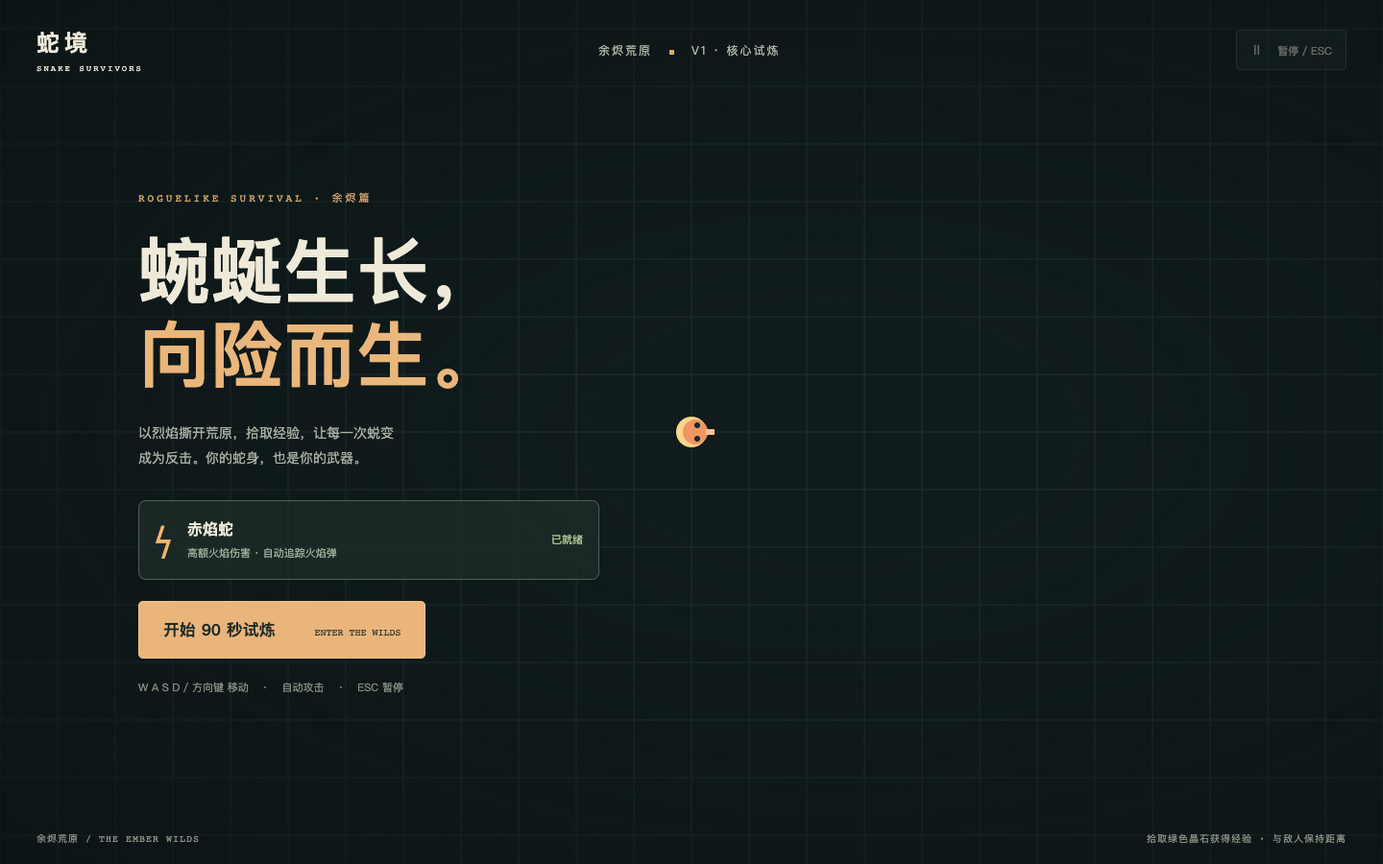
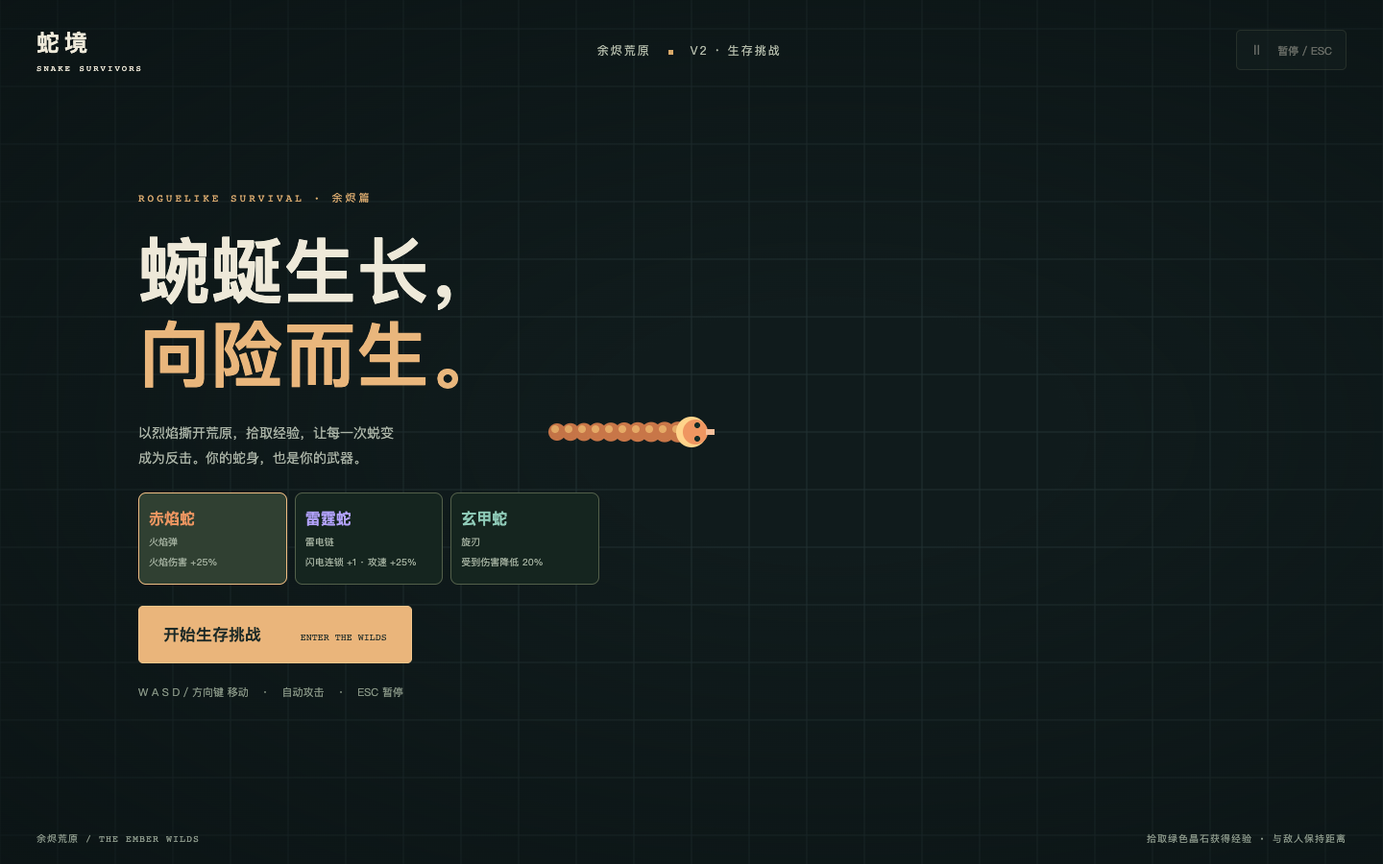
feat: implement snake survivors V2 combat progression

diff --git a/Task02/project/snake-survivors/src/main.jsx b/Task02/project/snake-survivors/src/main.jsx
@@ -2,14 +2,15 @@ import React,{useEffect,useRef,useState} from 'react';
 import {createRoot} from 'react-dom/client';
 import {Game} from './game/engine.js';
 import {render} from './game/renderer.js';
+import {CHARACTERS,WEAPONS,EVOLUTIONS} from './game/progression.js';
 import {threshold} from './game/config.js';
 import './style.css';
-function App(){const canvas=useRef(),game=useRef(new Game()),keys=useRef(new Set()),stick=useRef({x:0,y:0}),[view,setView]=useState(0);const g=game.current;
+function App(){const canvas=useRef(),game=useRef(new Game()),keys=useRef(new Set()),stick=useRef({x:0,y:0}),[view,setView]=useState(0),[selected,setSelected]=useState('fire');const g=game.current;
 useEffect(()=>{const el=canvas.current,ctx=el.getContext('2d');let width=0,height=0,dpr=1,frame,last=performance.now(),hud=0;const resize=()=>{width=innerWidth;height=innerHeight;dpr=Math.min(devicePixelRatio,2);el.width=width*dpr;el.height=height*dpr;};resize();const down=e=>{if(['ArrowUp','ArrowDown','ArrowLeft','ArrowRight',' '].includes(e.key))e.preventDefault();keys.current.add(e.key.toLowerCase());if(e.key==='Escape'){g.status==='playing'?g.pause():g.resume();setView(v=>v+1);}};const up=e=>keys.current.delete(e.key.toLowerCase());const blur=()=>{keys.current.clear();stick.current={x:0,y:0};g.pause();setView(v=>v+1);};addEventListener('resize',resize);addEventListener('keydown',down);addEventListener('keyup',up);addEventListener('blur',blur);function loop(now){const dt=(now-last)/1000;last=now;const k=keys.current;g.tick(dt,{x:Number(k.has('d')||k.has('arrowright'))-Number(k.has('a')||k.has('arrowleft'))+stick.current.x,y:Number(k.has('s')||k.has('arrowdown'))-Number(k.has('w')||k.has('arrowup'))+stick.current.y});render(ctx,g,width,height,dpr);if(now-hud>90){setView(v=>v+1);hud=now;}frame=requestAnimationFrame(loop);}frame=requestAnimationFrame(loop);return()=>{cancelAnimationFrame(frame);removeEventListener('resize',resize);removeEventListener('keydown',down);removeEventListener('keyup',up);removeEventListener('blur',blur);};},[]);
-const start=()=>{g.start();setView(v=>v+1);};return <><canvas ref={canvas} aria-label="蛇境战斗场景"/><div className="vignette"/>
-<header><a className="brand" href="#" onClick={e=>e.preventDefault()}>蛇境<span>SNAKE SURVIVORS</span></a><div className="tag">余烬荒原 <i/> V1 · 核心试炼</div><button className="small" onClick={()=>{g.status==='playing'?g.pause():g.resume();setView(v=>v+1);}} disabled={['menu','upgrade','ended'].includes(g.status)}>Ⅱ <span>暂停 / ESC</span></button></header>
-{g.status!=='menu'&&<><div className="hud"><div className="health"><label>赤焰蛇 <span>{Math.ceil(g.player.hp)} / {g.player.maxHp}</span></label><div className="bar"><b style={{width:g.player.hp/g.player.maxHp*100+'%'}}/></div></div><div className="clock">{String(Math.floor(g.time/60)).padStart(2,'0')}<em>:</em>{String(Math.floor(g.time%60)).padStart(2,'0')}<small>生存目标 01:30</small></div><div className="score">{g.kills}<small>击杀</small></div></div><div className="xp"><b style={{width:g.xp/threshold(g.level)*100+'%'}}/><span>LV. {g.level}　·　{g.xp} / {threshold(g.level)} EXP</span></div><aside>火焰弹 <strong>Ⅰ</strong><hr/>蛇身 <strong>{g.player.segments} 节</strong><small>蛇身可造成接触伤害</small></aside></>}
-{g.status==='menu'&&<main className="intro"><div className="eyebrow">ROGUELIKE SURVIVAL · 余烬篇</div><h1>蜿蜒生长，<br/><span>向险而生。</span></h1><p>以烈焰撕开荒原，拾取经验，让每一次蜕变<br/>成为反击。你的蛇身，也是你的武器。</p><div className="character"><div className="sigil">ϟ</div><div><b>赤焰蛇</b><small>高额火焰伤害 · 自动追踪火焰弹</small></div><span>已就绪</span></div><button className="primary" onClick={start}>开始 90 秒试炼 <span>ENTER THE WILDS</span></button><div className="hint">W A S D / 方向键 移动　 ·　 自动攻击　 ·　 ESC 暂停</div><div className="mobilehint">触屏：拖动左下方摇杆移动</div></main>}
-{['paused','upgrade','ended'].includes(g.status)&&<div className="overlay"><section className="panel"><div className="eyebrow">{g.status==='upgrade'?'EVOLUTION':g.status==='paused'?'TAKE A BREATH':'EXPEDITION COMPLETE'}</div><h2>{g.status==='upgrade'?'蜕变时刻':g.status==='paused'?'荒原静候':'victory'===g.result?'试炼完成':'烈焰未熄'}</h2>{g.status==='upgrade'?<><p>等级 {g.level} · 选择一项能力，继续生长</p><div className="choices">{g.choices.map((u,i)=><button key={u.id} onClick={()=>{g.choose(u.id);setView(v=>v+1);}}><small>0{i+1} / UPGRADE</small><h3>{u.name}</h3><p>{u.description}</p><span>选择能力 ＋</span></button>)}</div></>:<><p>{g.status==='paused'?'移动与战斗已暂停':`生存 ${Math.floor(g.time)} 秒 · 击杀 ${g.kills} · 等级 ${g.level}`}</p>{g.status==='paused'&&<button className="primary" onClick={()=>{g.resume();setView(v=>v+1);}}>继续战斗</button>}<button className="secondary" onClick={start}>重新开始</button></>}</section></div>}
+const start=()=>{g.start(selected);setView(v=>v+1);};return <><canvas ref={canvas} aria-label="蛇境战斗场景"/><div className="vignette"/>
+<header><a className="brand" href="#" onClick={e=>e.preventDefault()}>蛇境<span>SNAKE SURVIVORS</span></a><div className="tag">余烬荒原 <i/> V2 · 生存挑战</div><button className="small" onClick={()=>{g.status==='playing'?g.pause():g.resume();setView(v=>v+1);}} disabled={['menu','upgrade','ended'].includes(g.status)}>Ⅱ <span>暂停 / ESC</span></button></header>
+{g.status!=='menu'&&<><div className="hud"><div className="health"><label>{CHARACTERS[g.character].name} <span>{Math.ceil(g.player.hp)} / {g.player.maxHp}</span></label><div className="bar"><b style={{width:g.player.hp/g.player.maxHp*100+'%'}}/></div></div><div className="clock">{String(Math.floor(g.time/60)).padStart(2,'0')}<em>:</em>{String(Math.floor(g.time%60)).padStart(2,'0')}<small>生存目标 10:00</small></div><div className="score">{g.kills}<small>击杀</small></div></div><div className="xp"><b style={{width:g.xp/threshold(g.level)*100+'%'}}/><span>LV. {g.level}　·　{g.xp} / {threshold(g.level)} EXP</span></div><aside>{Object.entries(g.weapons).map(([id,lv])=><div key={id} className="weaponrow">{g.evolved[id]?EVOLUTIONS.find(e=>e.weapon===id)?.name:WEAPONS[id].name}<strong>Lv.{lv}</strong></div>)}<hr/>蛇身 <strong>{g.player.segments} 节</strong><small>蛇身可造成接触伤害</small><small>核心 {Object.keys(g.cores).length} / 3</small></aside><div className={'combo '+(g.fever>0?'fever':'')}>{g.fever>0?`FEVER ${g.fever.toFixed(1)}s`:`${g.combo} COMBO`}<small>最高连杀 {g.maxCombo}</small></div>{g.enemies.filter(e=>e.type==='boss').map(e=><div className="bossbar" key={e.id}><label>荒原吞噬者 · 阶段 {e.phase}</label><div className="bar"><b style={{width:Math.max(0,e.hp/e.maxHp)*100+'%'}}/></div></div>)}</>}
+{g.status==='menu'&&<main className="intro"><div className="eyebrow">ROGUELIKE SURVIVAL · 余烬篇</div><h1>蜿蜒生长，<br/><span>向险而生。</span></h1><p>以烈焰撕开荒原，拾取经验，让每一次蜕变<br/>成为反击。你的蛇身，也是你的武器。</p><div className="characters">{Object.entries(CHARACTERS).map(([id,c])=><button key={id} className={'character '+(selected===id?'selected':'')} onClick={()=>setSelected(id)}><b style={{color:c.color}}>{c.name}</b><small>{WEAPONS[c.weapon].name}</small><small>{c.passive}</small></button>)}</div><button className="primary" onClick={start}>开始生存挑战 <span>ENTER THE WILDS</span></button><div className="hint">W A S D / 方向键 移动　 ·　 自动攻击　 ·　 ESC 暂停</div><div className="mobilehint">触屏：拖动左下方摇杆移动</div></main>}
+{['paused','upgrade','ended'].includes(g.status)&&<div className="overlay"><section className="panel"><div className="eyebrow">{g.status==='upgrade'?'EVOLUTION':g.status==='paused'?'TAKE A BREATH':'EXPEDITION COMPLETE'}</div><h2>{g.status==='upgrade'?'蜕变时刻':g.status==='paused'?'荒原静候':'victory'===g.result?'试炼完成':'烈焰未熄'}</h2>{g.status==='upgrade'?<><p>等级 {g.level} · 选择一项能力，继续生长</p><div className="choices">{g.choices.map((u,i)=><button key={u.id} onClick={()=>{g.choose(u.id);setView(v=>v+1);}}><small>0{i+1} / UPGRADE</small><h3>{u.name}</h3><p>{u.description}</p><span>选择能力 ＋</span></button>)}</div></>:<><p>{g.status==='paused'?'移动与战斗已暂停':`生存 ${Math.floor(g.time)} 秒 · 击杀 ${g.kills} · 等级 ${g.level} · 最高连杀 ${g.maxCombo} · 总伤害 ${Math.round(g.totalDamage)}${g.bossDefeated?" · Boss 已击败":""}`}</p>{g.status==='paused'&&<button className="primary" onClick={()=>{g.resume();setView(v=>v+1);}}>继续战斗</button>}<button className="secondary" onClick={start}>重新开始</button><button className="secondary" onClick={()=>{g.reset();setView(v=>v+1);}}>选择角色</button></>}</section></div>}
 <div className="joystick" onPointerDown={e=>{e.currentTarget.setPointerCapture(e.pointerId);const r=e.currentTarget.getBoundingClientRect();stick.current={x:(e.clientX-r.x-r.width/2)/45,y:(e.clientY-r.y-r.height/2)/45};}} onPointerMove={e=>{if(e.buttons){const r=e.currentTarget.getBoundingClientRect();stick.current={x:(e.clientX-r.x-r.width/2)/45,y:(e.clientY-r.y-r.height/2)/45};}}} onPointerUp={()=>stick.current={x:0,y:0}} onPointerCancel={()=>stick.current={x:0,y:0}}>✥</div><footer><span>余烬荒原 / THE EMBER WILDS</span><span>拾取绿色晶石获得经验 · 与敌人保持距离</span></footer></>}
 createRoot(document.getElementById('root')).render(<App/>);

diff --git a/Task02/project/snake-survivors/src/game/engine.js b/Task02/project/snake-survivors/src/game/engine.js
@@ -1,16 +1,18 @@
 import {RULES,UPGRADES,threshold} from './config.js';
+import {CHARACTERS,weaponChoices,coreChoices,evolve,registerKill,comboMultiplier} from './progression.js';
 import {createPlayer,updatePlayer} from './player.js';
 import {spawnEnemy,updateEnemies} from './enemies.js';
 import {updateWeapons} from './weapons.js';
 import {updateDrops} from './drops.js';
 export class Game {
- constructor(random=Math.random){this.random=random;this.reset();}
- reset(){this.player=createPlayer();updatePlayer(this.player,{x:0,y:0},0);this.enemies=[];this.bullets=[];this.drops=[];this.effects=[];this.time=0;this.kills=0;this.level=1;this.xp=0;this.cooldown=0;this.spawn=0;this.nextId=1;this.upgrades={};this.choices=[];this.status='menu';this.result=null;}
- start(){this.reset();this.status='playing';}
+ constructor(random=Math.random){this.random=random;this.character='fire';this.reset();}
+ reset(){this.player=createPlayer();const c=CHARACTERS[this.character];this.player.hp=this.player.maxHp=c.hp;updatePlayer(this.player,{x:0,y:0},0);this.enemies=[];this.bullets=[];this.drops=[];this.effects=[];this.zones=[];this.hostile=[];this.warnings=[];this.weapons={[c.weapon]:1};this.timers={};this.cores={};this.evolved={};this.combo=0;this.maxCombo=0;this.lastKill=-10;this.fever=0;this.feverReady=0;this.elites=0;this.bossSpawned=false;this.bossDefeated=false;this.time=0;this.kills=0;this.totalDamage=0;this.level=1;this.xp=0;this.spawn=0;this.nextId=1;this.upgrades={};this.choices=[];this.status='menu';this.result=null;}
+ start(character=this.character){this.character=CHARACTERS[character]?character:'fire';this.reset();this.status='playing';}
  pause(){if(this.status==='playing')this.status='paused';}
  resume(){if(this.status==='paused')this.status='playing';}
- damage(enemy,value){if(enemy.hp<=0)return;enemy.hp-=value;enemy.flash=0.1;this.effects.push({x:enemy.x,y:enemy.y,text:Math.round(value),color:'#ffe5a3',life:0.65});if(enemy.hp<=0){this.kills++;this.drops.push({x:enemy.x,y:enemy.y,value:enemy.xp});for(let i=0;i<5;i++)this.effects.push({x:enemy.x,y:enemy.y,vx:(this.random()-.5)*140,vy:(this.random()-.5)*140,color:enemy.color,life:0.45});}}
- offer(){const pool=UPGRADES.filter(u=>(this.upgrades[u.id]||0)<u.max);this.choices=[];while(pool.length&&this.choices.length<3)this.choices.push(pool.splice(Math.floor(this.random()*pool.length),1)[0]);if(this.choices.length)this.status='upgrade';else{this.player.hp=Math.min(this.player.maxHp,this.player.hp+20);}}
- choose(id){if(this.status!=='upgrade'||!this.choices.some(c=>c.id===id))return;this.upgrades[id]=(this.upgrades[id]||0)+1;const p=this.player;if(id==='length')p.segments+=3;if(id==='health'){p.maxHp+=25;p.hp=Math.min(p.maxHp,p.hp+35);}if(id==='speed')p.speed=210*(1+.08*this.upgrades.speed);this.choices=[];this.status='playing';}
- tick(dt,input={x:0,y:0}){if(this.status!=='playing')return;dt=Math.min(Math.max(dt,0),0.05);this.time+=dt;updatePlayer(this.player,input,dt);this.spawn-=dt;if(this.spawn<=0&&this.enemies.length<RULES.maxEnemies){spawnEnemy(this,this.time>25&&this.random()<.3?'skeleton':this.random()<.3?'beast':'slime');this.spawn=Math.max(.18,.8-this.time*.006);}updateWeapons(this,dt);updateEnemies(this,dt);this.enemies=this.enemies.filter(e=>e.hp>0);updateDrops(this,dt);for(const e of this.effects){e.life-=dt;e.y+=(e.vy||-24)*dt;e.x+=(e.vx||0)*dt;}this.effects=this.effects.filter(e=>e.life>0);if(this.player.hp<=0){this.status='ended';this.result='defeat';}else if(this.time>=RULES.duration){this.status='ended';this.result='victory';}else if(this.xp>=threshold(this.level)){this.xp-=threshold(this.level);this.level++;this.offer();}}
+ hurt(value){const p=this.player;if(p.invulnerable>0)return;const reduction=Math.min(.6,CHARACTERS[this.character].reduction+.08*(this.upgrades.armor||0));const damage=value*(1-reduction);p.hp=Math.max(0,p.hp-damage);p.invulnerable=.7;this.effects.push({x:p.x,y:p.y,text:`−${Math.round(damage)}`,color:'#ff7e75',life:.8});}
+ damage(enemy,value){if(enemy.hp<=0)return;const crit=this.random()<Math.min(.6,.04+.08*(this.upgrades.crit||0));value*=CHARACTERS[this.character].attack*(1+.2*(this.upgrades.power||0))*(this.fever>0?1.5:1)*(crit?Math.min(3,1.5+.25*(this.upgrades.critDamage||0)):1);this.totalDamage+=Math.min(enemy.hp,value);enemy.hp-=value;enemy.flash=.1;const d=Math.hypot(enemy.x-this.player.x,enemy.y-this.player.y)||1;if(enemy.type!=='boss'){enemy.x+=(enemy.x-this.player.x)/d*6;enemy.y+=(enemy.y-this.player.y)/d*6;}this.effects.push({x:enemy.x,y:enemy.y,text:Math.round(value)+(crit?'!':''),color:crit?'#fff':'#ffe5a3',life:.65});if(enemy.hp<=0){this.kills++;registerKill(this);this.drops.push({x:enemy.x,y:enemy.y,value:Math.round(enemy.xp*comboMultiplier(this)*(1+.15*(this.upgrades.xp||0))),rare:enemy.type==='elite'});if(enemy.type==='boss'){this.bossDefeated=true;this.player.hp=this.player.maxHp;this.result='victory';this.status='ended';}for(let i=0;i<5;i++)this.effects.push({x:enemy.x,y:enemy.y,vx:(this.random()-.5)*140,vy:(this.random()-.5)*140,color:enemy.color,life:.45});}}
+ offer(rare=false){const pool=rare?coreChoices(this):[...UPGRADES.filter(u=>(this.upgrades[u.id]||0)<u.max),...weaponChoices(this),...coreChoices(this)];this.choices=[];while(pool.length&&this.choices.length<3)this.choices.push(pool.splice(Math.floor(this.random()*pool.length),1)[0]);if(this.choices.length)this.status='upgrade';else this.player.hp=Math.min(this.player.maxHp,this.player.hp+20);}
+ choose(id){if(this.status!=='upgrade'||!this.choices.some(c=>c.id===id))return;const [kind,key]=id.split(':');if(kind==='weapon')this.weapons[key]=(this.weapons[key]||0)+1;else if(kind==='core')this.cores[key]=true;else{this.upgrades[id]=(this.upgrades[id]||0)+1;const p=this.player;if(id==='length')p.segments+=3;if(id==='health'){p.maxHp+=25;p.hp=Math.min(p.maxHp,p.hp+35);}if(id==='speed')p.speed=210*(1+.08*this.upgrades.speed);}evolve(this);this.choices=[];this.status='playing';}
+ tick(dt,input={x:0,y:0}){if(this.status!=='playing')return;dt=Math.min(Math.max(dt,0),.05);this.time+=dt;this.fever=Math.max(0,this.fever-dt);if(this.time-this.lastKill>3)this.combo=0;this.player.hp=Math.min(this.player.maxHp,this.player.hp+dt*.5*(this.upgrades.regen||0));updatePlayer(this.player,input,dt);this.spawn-=dt;if(this.spawn<=0&&this.enemies.length<RULES.maxEnemies){spawnEnemy(this,this.time>60&&this.random()<.2?'worm':this.time>25&&this.random()<.3?'skeleton':this.random()<.3?'beast':'slime');this.spawn=Math.max(.18,.8-this.time*.0015);}if(this.elites<3&&this.time>=[120,240,420][this.elites]){spawnEnemy(this,'elite');this.elites++;}if(this.time>=540&&!this.bossSpawned){spawnEnemy(this,'boss');this.bossSpawned=true;}updateWeapons(this,dt);if(this.status==='ended')return;updateEnemies(this,dt);this.enemies=this.enemies.filter(e=>e.hp>0);updateDrops(this,dt);for(const e of this.effects){e.life-=dt;e.y+=(e.vy||-24)*dt;e.x+=(e.vx||0)*dt;}this.effects=this.effects.filter(e=>e.life>0).slice(-500);if(this.player.hp<=0){this.status='ended';this.result='defeat';}else if(this.bossDefeated||this.time>=RULES.duration){this.status='ended';this.result='victory';}else if(this.status==='playing'&&this.xp>=threshold(this.level)){this.xp-=threshold(this.level);this.level++;this.offer();}}
 }

diff --git a/Task02/project/snake-survivors/src/style.css b/Task02/project/snake-survivors/src/style.css
@@ -1,1 +1,2 @@
 :root{font-family:Inter,'PingFang SC',system-ui,sans-serif;color:#eee9d9;background:#101b1c;font-synthesis:none}*{box-sizing:border-box}body{margin:0;overflow:hidden}canvas,.vignette{position:fixed;inset:0;width:100%;height:100%}.vignette{pointer-events:none;background:radial-gradient(ellipse at 60% 50%,transparent 20%,#091112a8 100%)}button{font:inherit;cursor:pointer;color:inherit;transition:.2s}button:hover{filter:brightness(1.16);transform:translateY(-2px)}button:focus-visible{outline:2px solid #f9ba7c;outline-offset:4px}button:disabled{opacity:.4;cursor:default}header{position:absolute;top:28px;left:38px;right:38px;display:flex;align-items:center;justify-content:space-between}.brand{font-size:24px;font-weight:800;color:#eee9d9;text-decoration:none;letter-spacing:5px}.brand span{display:block;font:9px monospace;letter-spacing:2px;margin-top:5px}.tag{font-size:12px;letter-spacing:2px;color:#b1b9a8}.tag i{display:inline-block;width:5px;height:5px;background:#d9a969;margin:0 12px}.small{background:#172423;border:1px solid #4b5547;padding:10px 14px;border-radius:5px;font-size:14px}.small span{font-size:11px;margin-left:10px}.intro{position:absolute;left:10%;top:22%;width:480px}.eyebrow{font:11px monospace;letter-spacing:3px;color:#dbab6f}.intro h1{font-size:clamp(42px,5.2vw,76px);line-height:1.16;letter-spacing:1px;margin:25px 0}.intro h1 span{color:#e9b67c}.intro p,.panel>p{font-size:14px;line-height:1.9;color:#aab3a6}.character{display:flex;align-items:center;gap:16px;margin:30px 0 22px;padding:16px;background:#1d2c28cc;border:1px solid #53604a;border-radius:8px}.sigil{font-size:35px;color:#f0b46f}.character small{display:block;margin-top:6px;color:#a5b2a1;font-size:11px}.character>span{margin-left:auto;color:#b1c995;font-size:11px}.primary{border:1px solid #f4c78b;background:#eab57b;color:#1c2926;padding:17px 25px;font-size:17px;font-weight:700;border-radius:5px}.primary span{font:10px monospace;margin-left:35px}.hint,.mobilehint{font-size:11px;color:#859383;margin-top:22px}.mobilehint{display:none}footer{position:absolute;bottom:20px;left:38px;right:38px;display:flex;justify-content:space-between;color:#8a9789;font:10px monospace;letter-spacing:1px}.hud{position:absolute;top:104px;left:38px;right:38px;display:flex;align-items:start;justify-content:space-between}.health{width:220px}.health label{font-size:13px;display:flex;justify-content:space-between}.health label span{font:12px monospace;color:#baae94}.bar{height:6px;background:#3c4034;margin-top:12px}.bar b{display:block;height:100%;background:#e7a578}.clock{font:34px monospace;text-align:center}.clock em{font-style:normal;color:#9ca78e}.clock small,.score small{display:block;font:10px sans-serif;color:#9daa95;margin-top:6px}.score{font:26px monospace;text-align:right;width:220px}.xp{position:absolute;bottom:50px;left:25%;right:25%;height:4px;background:#354439}.xp b{display:block;height:100%;background:#b9d79a}.xp span{display:block;text-align:center;margin-top:8px;font:10px monospace;color:#b5c2a7}aside{position:absolute;left:38px;top:220px;background:#12201bc9;border:1px solid #344337;padding:16px;font-size:12px;width:170px}aside strong{float:right;color:#efb77f}aside small{display:block;margin-top:12px;font-size:10px;color:#8fa28e}hr{border:0;border-top:1px solid #344337;margin:12px 0}.overlay{position:fixed;inset:0;background:#081211cc;backdrop-filter:blur(8px);display:grid;place-items:center}.panel{text-align:center;max-width:900px;width:90%;padding:35px}.panel h2{font-size:42px;margin:20px}.choices{display:flex;gap:16px;margin-top:30px}.choices button{text-align:left;flex:1;background:#1c2b27;border:1px solid #65704f;border-radius:8px;padding:25px}.choices small{font:10px monospace;color:#bdc595}.choices h3{color:#f0c18b;font-size:22px}.choices p{font-size:13px;line-height:1.8;color:#b4c0a6;min-height:50px}.choices span{font-size:12px;color:#d6c695}.secondary{background:transparent;border:1px solid #899876;padding:16px 26px;border-radius:5px;margin:12px}.joystick{display:none} @media(max-width:650px){header{top:20px;left:20px;right:20px}.tag{display:none}.intro{left:7%;top:20%;width:86%}.intro h1{font-size:49px}.intro p{font-size:13px}.primary span{margin-left:12px}.hint{font-size:10px}.mobilehint{display:block}.hud{left:20px;right:20px;top:100px}.health{width:125px}.score{width:60px}.clock{font-size:25px}aside{display:none}.xp{left:20%;right:20%;bottom:60px}footer{left:20px;right:20px;font-size:8px}footer span:last-child{display:none}.choices{flex-direction:column;gap:8px;margin-top:15px}.choices button{padding:15px}.choices h3{font-size:18px;margin:8px 0}.choices p{min-height:0;margin:6px 0}.panel{padding:12px}.panel h2{font-size:30px}.joystick{display:grid;place-items:center;position:absolute;bottom:90px;left:24px;width:100px;height:100px;border:1px solid #a2b79466;background:#a2b79411;border-radius:100%;touch-action:none;font-size:36px;color:#c0cfa388}.intro~.joystick{opacity:.4}}
+.characters{display:flex;gap:8px;margin:22px 0}.characters .character{display:block;flex:1;margin:0;padding:15px 10px;text-align:left;background:#15251f;min-width:0}.characters .selected{border-color:#efbd83;background:#304032}.characters .character small{font-size:10px;line-height:1.5}.weaponrow{margin-bottom:12px}.combo{position:absolute;right:38px;top:220px;text-align:right;font:24px monospace;color:#efc38e}.combo small{display:block;color:#a3b097;font:11px sans-serif;margin-top:6px}.fever{color:#ffb65e;text-shadow:0 0 24px #ff7f39}.bossbar{position:absolute;top:180px;left:30%;right:30%;text-align:center;font-size:13px;color:#f1b3da}.bossbar .bar b{background:#d084bc}@media(max-width:650px){.intro{top:17%}.intro h1{font-size:40px;margin:18px 0}.characters{margin:16px 0}.characters .character{padding:12px 8px}.combo{top:180px;right:20px;font-size:19px}.bossbar{top:235px;left:20%;right:20%}}

diff --git a/Task02/project/snake-survivors/src/game/renderer.js b/Task02/project/snake-survivors/src/game/renderer.js
@@ -1,10 +1,16 @@
+import {bladePositions} from './weapons.js';
+import {CHARACTERS} from './progression.js';
 import {RULES} from './config.js';
 export function render(ctx,g,w,h,dpr=1){ctx.setTransform(dpr,0,0,dpr,0,0);ctx.fillStyle='#101b1c';ctx.fillRect(0,0,w,h);const p=g.player,scale=Math.min(1,w/900+.25),ox=w/2-p.x*scale,oy=h/2-p.y*scale;ctx.save();ctx.translate(ox,oy);ctx.scale(scale,scale);ctx.strokeStyle='#213032';ctx.lineWidth=1;for(let x=0;x<=RULES.width;x+=60){ctx.beginPath();ctx.moveTo(x,0);ctx.lineTo(x,RULES.height);ctx.stroke();}for(let y=0;y<=RULES.height;y+=60){ctx.beginPath();ctx.moveTo(0,y);ctx.lineTo(RULES.width,y);ctx.stroke();}ctx.strokeStyle='#718a62';ctx.lineWidth=6;ctx.strokeRect(0,0,RULES.width,RULES.height);
  const circle=(x,y,r,color)=>{ctx.fillStyle=color;ctx.beginPath();ctx.arc(x,y,r,0,Math.PI*2);ctx.fill();};
+ for(const z of g.zones){ctx.globalAlpha=.15;circle(z.x,z.y,z.r,z.fire?'#ff8950':'#9fd855');ctx.globalAlpha=1;ctx.strokeStyle=z.fire?'#ff8950':'#9fd855';ctx.beginPath();ctx.arc(z.x,z.y,z.r,0,Math.PI*2);ctx.stroke();}
+ for(const w of g.warnings){ctx.globalAlpha=.2+.3*(1-w.life/w.delay);circle(w.x,w.y,w.r,'#ff576c');ctx.globalAlpha=1;ctx.strokeStyle='#ff9ca1';ctx.lineWidth=3;ctx.beginPath();ctx.arc(w.x,w.y,w.r,0,Math.PI*2);ctx.stroke();ctx.fillStyle='#fff';ctx.textAlign='center';ctx.font='bold 24px sans-serif';ctx.fillText('!',w.x,w.y);}
+ for(const b of g.hostile)circle(b.x,b.y,7,'#d6ed88');
+ for(const b of bladePositions(g)){ctx.save();ctx.translate(b.x,b.y);ctx.rotate(g.time*5);ctx.fillStyle=g.evolved.blade?'#7bfff0':'#d9efed';ctx.fillRect(-20,-5,40,10);ctx.restore();}
  for(const d of g.drops){ctx.save();ctx.translate(d.x,d.y);ctx.rotate(Math.PI/4);ctx.fillStyle='#a9efbb';ctx.shadowColor='#baffbd';ctx.shadowBlur=10;ctx.fillRect(-4,-4,8,8);ctx.restore();}
- for(const e of g.enemies){circle(e.x+2,e.y+5,e.radius,'#071211');circle(e.x,e.y,e.radius,e.flash?'#fff':e.type==='beast'?'#dc9465':e.type==='skeleton'?'#c8ccba':'#839f53');circle(e.x-5,e.y-2,2,'#1b2725');circle(e.x+5,e.y-2,2,'#1b2725');if(e.type==='skeleton'){ctx.fillStyle='#26342e';ctx.fillRect(e.x-6,e.y+4,12,3);}if(e.hp<e.maxHp){ctx.fillStyle='#28342d';ctx.fillRect(e.x-14,e.y-25,28,3);ctx.fillStyle='#ef9b6b';ctx.fillRect(e.x-14,e.y-25,28*Math.max(0,e.hp/e.maxHp),3);}}
+ for(const e of g.enemies){circle(e.x+2,e.y+5,e.radius,'#071211');circle(e.x,e.y,e.radius,e.flash?'#fff':e.color);circle(e.x-5,e.y-2,2,'#1b2725');circle(e.x+5,e.y-2,2,'#1b2725');if(e.type==='skeleton'){ctx.fillStyle='#26342e';ctx.fillRect(e.x-6,e.y+4,12,3);}if(e.hp<e.maxHp){ctx.fillStyle='#28342d';ctx.fillRect(e.x-14,e.y-25,28,3);ctx.fillStyle='#ef9b6b';ctx.fillRect(e.x-14,e.y-25,28*Math.max(0,e.hp/e.maxHp),3);}}
  p.body.slice().reverse().forEach((b,i)=>{circle(b.x,b.y,9+i/p.segments*2,'#c87648');circle(b.x-2,b.y-3,4,'#e5aa66');});
- ctx.save();ctx.translate(p.x,p.y);ctx.rotate(p.angle);ctx.globalAlpha=p.invulnerable>0?.6+Math.sin(g.time*40)*.3:1;circle(0,0,16,'#ffd48b');circle(4,0,13,'#ef9661');circle(6,-7,3,'#152b26');circle(6,7,3,'#152b26');ctx.strokeStyle='#f6bf9b';ctx.beginPath();ctx.moveTo(15,0);ctx.lineTo(24,0);ctx.stroke();ctx.restore();
+ ctx.save();ctx.translate(p.x,p.y);ctx.rotate(p.angle);ctx.globalAlpha=p.invulnerable>0?.6+Math.sin(g.time*40)*.3:1;circle(0,0,16,'#ffd48b');circle(4,0,13,CHARACTERS[g.character].color);circle(6,-7,3,'#152b26');circle(6,7,3,'#152b26');ctx.strokeStyle='#f6bf9b';ctx.beginPath();ctx.moveTo(15,0);ctx.lineTo(24,0);ctx.stroke();ctx.restore();
  for(const b of g.bullets){ctx.shadowColor='#ff8651';ctx.shadowBlur=18;circle(b.x,b.y,7,'#ffb25f');circle(b.x,b.y,3,'#fff4cc');}ctx.shadowBlur=0;
- for(const e of g.effects){ctx.globalAlpha=Math.min(1,e.life*2);ctx.font='bold 17px monospace';ctx.textAlign='center';ctx.fillStyle=e.color;if(e.text!==undefined)ctx.fillText(e.text,e.x,e.y);else circle(e.x,e.y,2,e.color||'#e7bb77');}ctx.restore();ctx.globalAlpha=1;
+ for(const e of g.effects){if(e.x2!==undefined){ctx.strokeStyle=e.color;ctx.lineWidth=e.shadow?13:3;ctx.globalAlpha=Math.min(1,e.life*3);ctx.beginPath();ctx.moveTo(e.x,e.y);ctx.lineTo(e.x2,e.y2);ctx.stroke();ctx.globalAlpha=1;continue;}ctx.globalAlpha=Math.min(1,e.life*2);ctx.font='bold 17px monospace';ctx.textAlign='center';ctx.fillStyle=e.color;if(e.text!==undefined)ctx.fillText(e.text,e.x,e.y);else circle(e.x,e.y,2,e.color||'#e7bb77');}ctx.restore();ctx.globalAlpha=1;
 }

diff --git a/Task02/project/snake-survivors/tests/engine.test.js b/Task02/project/snake-survivors/tests/engine.test.js
@@ -1,4 +1,4 @@
-import test from 'node:test';import assert from 'node:assert/strict';import {Game} from '../src/game/engine.js';import {updatePlayer} from '../src/game/player.js';import {spawnEnemy,updateEnemies} from '../src/game/enemies.js';import {updateWeapons} from '../src/game/weapons.js';import {updateDrops} from '../src/game/drops.js';import {threshold} from '../src/game/config.js';
+import test from 'node:test';import assert from 'node:assert/strict';import {Game} from '../src/game/engine.js';import {updatePlayer} from '../src/game/player.js';import {spawnEnemy,updateEnemies} from '../src/game/enemies.js';import {updateWeapons} from '../src/game/weapons.js';import {updateDrops} from '../src/game/drops.js';import {RULES,UPGRADES,threshold} from '../src/game/config.js';
 const fresh=()=>{const g=new Game(()=>.5);g.start();return g;};
 test('movement is frame independent, diagonal normalized, bounded',()=>{const a=fresh(),b=fresh();for(let i=0;i<60;i++)updatePlayer(a.player,{x:1,y:1},1/60/Math.sqrt(2));for(let i=0;i<30;i++)updatePlayer(b.player,{x:1,y:1},1/30/Math.sqrt(2));assert.ok(Math.abs(a.player.x-b.player.x)<.001);});
 test('body follows a continuous curved path at stable spacing',()=>{const g=fresh();for(let i=0;i<180;i++)updatePlayer(g.player,{x:Math.cos(i/80),y:Math.sin(i/80)},1/60);assert.equal(g.player.body.length,g.player.segments);const points=[g.player,...g.player.body];for(let i=1;i<points.length;i++){const d=Math.hypot(points[i].x-points[i-1].x,points[i].y-points[i-1].y);assert.ok(d>12&&d<15);}});
@@ -6,7 +6,7 @@ test('spawn stays away; enemies chase and deal contact damage',()=>{const g=fres
 test('homing projectiles damage enemies and generate drops',()=>{const g=fresh();spawnEnemy(g,'slime');const e=g.enemies[0];e.x=g.player.x+90;e.y=g.player.y;for(let i=0;i<180;i++)updateWeapons(g,1/60);assert.ok(e.hp<=0);assert.equal(g.kills,1);assert.equal(g.drops.length,1);});
 test('experience pauses play, choice applies once and resumes',()=>{const g=fresh();g.drops.push({x:g.player.x,y:g.player.y,value:threshold(1)});updateDrops(g,.01);g.tick(.01);assert.equal(g.status,'upgrade');assert.equal(g.choices.length,3);const id=g.choices[0].id;g.choose(id);g.choose(id);assert.equal(g.upgrades[id],1);assert.equal(g.status,'playing');});
 test('pause freezes simulation and restart clears all state',()=>{const g=fresh();g.tick(.1);g.pause();const time=g.time;g.tick(1,{x:1,y:0});assert.equal(g.time,time);g.resume();g.tick(.01);assert.ok(g.time>time);g.start();assert.equal(g.time,0);assert.equal(g.enemies.length,0);assert.deepEqual(g.upgrades,{});});
-test('death and timed victory produce separate results',()=>{const g=fresh();g.player.hp=0;g.tick(.01);assert.equal(g.result,'defeat');g.start();g.time=90;g.tick(.01);assert.equal(g.result,'victory');});
+test('death and timed victory produce separate results',()=>{const g=fresh();g.player.hp=0;g.tick(.01);assert.equal(g.result,'defeat');g.start();g.time=RULES.duration;g.tick(.01);assert.equal(g.result,'victory');});
 
 test('map bounds clamp motion at all four edges',()=>{const g=fresh(),p=g.player;p.x=24;p.y=24;updatePlayer(p,{x:-1,y:-1},1);assert.equal(p.x,24);assert.equal(p.y,24);p.x=2376;p.y=1776;updatePlayer(p,{x:1,y:1},1);assert.equal(p.x,2376);assert.equal(p.y,1776);});
-test('upgrade limits exclude capped choices',()=>{const g=fresh();g.upgrades={power:5,haste:5,length:6,health:5,speed:4};g.offer();assert.equal(g.choices.length,0);assert.equal(g.status,'playing');});
+test('upgrade limits exclude capped choices',()=>{const g=fresh();g.upgrades=Object.fromEntries(UPGRADES.map(u=>[u.id,u.max]));g.weapons={fire:5,lightning:5,blade:5,poison:5,shadow:5};g.cores={fireCore:true,energyCore:true,windCore:true};g.offer();assert.equal(g.choices.length,0);assert.equal(g.status,'playing');});

diff --git a/Task02/project/snake-survivors/tests/progression.test.js b/Task02/project/snake-survivors/tests/progression.test.js
@@ -1,0 +1,11 @@
+import test from 'node:test';import assert from 'node:assert/strict';
+import {Game} from '../src/game/engine.js';import {spawnEnemy,updateEnemies} from '../src/game/enemies.js';import {updateWeapons,bladePositions} from '../src/game/weapons.js';import {CHARACTERS,EVOLUTIONS,evolve,registerKill,comboMultiplier} from '../src/game/progression.js';
+const fresh=(c='fire')=>{const g=new Game(()=>.9);g.start(c);return g;};
+test('three characters have distinct stats and real starting weapons',()=>{for(const [id,c] of Object.entries(CHARACTERS)){const g=fresh(id);assert.equal(g.player.hp,c.hp);assert.equal(g.weapons[c.weapon],1);g.hurt(10);assert.equal(g.player.hp,c.hp-10*(1-c.reduction));}});
+test('each weapon causes actual damage',()=>{for(const id of ['fire','lightning','blade','poison','shadow']){const g=fresh();g.weapons={[id]:1};spawnEnemy(g,'elite');const e=g.enemies[0];Object.assign(e,{x:g.player.x+90,y:g.player.y,hp:10000,maxHp:10000});for(let i=0;i<180;i++){g.time+=1/60;updateWeapons(g,1/60);}assert.ok(e.hp<10000,id);}});
+test('evolution requires both max weapon and matching core',()=>{for(const e of EVOLUTIONS){const g=fresh();g.weapons[e.weapon]=4;g.cores[e.core]=true;evolve(g);assert.ok(!g.evolved[e.weapon]);g.weapons[e.weapon]=5;g.cores={};evolve(g);assert.ok(!g.evolved[e.weapon]);g.cores[e.core]=true;evolve(g);assert.equal(g.evolved[e.weapon],true);}const g=fresh();g.weapons.blade=5;const base=bladePositions(g).length;g.evolved.blade=true;assert.ok(bladePositions(g).length>base);});
+test('combo scales, expires and triggers six-second fever with cooldown',()=>{const g=fresh();for(let i=0;i<30;i++)registerKill(g);assert.equal(g.fever,6);assert.equal(g.combo,30);assert.equal(comboMultiplier(g),1.3);g.fever=0;registerKill(g);assert.equal(g.fever,0);g.time=4;g.tick(.01);assert.equal(g.combo,0);});
+test('elite drops rare core selection',()=>{const g=fresh();spawnEnemy(g,'elite');const e=g.enemies[0];e.x=g.player.x;e.y=g.player.y;g.damage(e,10000);assert.equal(g.drops[0].rare,true);g.tick(.01);assert.equal(g.status,'upgrade');assert.ok(g.choices.every(c=>c.id.startsWith('core:')));});
+test('boss phase changes and attack is warned before damage',()=>{const g=fresh();spawnEnemy(g,'boss');const e=g.enemies[0];e.hp=e.maxHp*.3;e.attack=0;updateEnemies(g,.01);assert.equal(e.phase,3);assert.equal(g.warnings.length,1);assert.equal(g.player.hp,100);g.hostile=[];updateEnemies(g,.5);assert.equal(g.player.hp,100);updateEnemies(g,.5);assert.ok(g.player.hp<100);});
+test('boss kill settles victory, preserves stats and restart clears V2 state',()=>{const g=fresh();spawnEnemy(g,'boss');g.damage(g.enemies[0],100000);assert.equal(g.status,'ended');assert.equal(g.result,'victory');assert.equal(g.bossDefeated,true);g.start('armor');assert.equal(g.combo,0);assert.equal(g.bossDefeated,false);assert.deepEqual(g.cores,{});assert.deepEqual(g.evolved,{});assert.equal(g.zones.length,0);assert.equal(g.hostile.length,0);});
+test('paused game freezes fever, projectile and boss warnings',()=>{const g=fresh();g.fever=5;g.warnings.push({life:1});g.pause();g.tick(.05);assert.equal(g.fever,5);assert.equal(g.warnings[0].life,1);});

diff --git a/Task02/project/snake-survivors/src/game/enemies.js b/Task02/project/snake-survivors/src/game/enemies.js
@@ -1,3 +1,9 @@
 import {ENEMIES,RULES} from './config.js';
-export function spawnEnemy(game,type){const p=game.player,a=game.random()*Math.PI*2;let x=p.x+Math.cos(a)*650,y=p.y+Math.sin(a)*650;x=Math.max(25,Math.min(RULES.width-25,x));y=Math.max(25,Math.min(RULES.height-25,y));if(Math.hypot(x-p.x,y-p.y)<350){x=p.x<RULES.width/2?RULES.width-50:50;y=p.y<RULES.height/2?RULES.height-50:50;}const cfg=ENEMIES[type];game.enemies.push({...cfg,type,x,y,maxHp:cfg.hp,id:game.nextId++,flash:0,hit:0});}
-export function updateEnemies(g,dt){const p=g.player;for(const e of g.enemies){const d=Math.hypot(p.x-e.x,p.y-e.y)||1;const speed=e.speed*(e.type==='beast' && (g.time+e.id)%3<0.7?1.9:1);e.x+=(p.x-e.x)/d*speed*dt;e.y+=(p.y-e.y)/d*speed*dt;e.flash=Math.max(0,e.flash-dt);e.hit=Math.max(0,e.hit-dt);if(d<e.radius+p.radius && p.invulnerable<=0){p.hp=Math.max(0,p.hp-e.damage);p.invulnerable=0.7;g.effects.push({x:p.x,y:p.y,text:`−${e.damage}`,color:'#ff7e75',life:0.8});}if(e.hit===0 && p.body.some(b=>Math.hypot(b.x-e.x,b.y-e.y)<e.radius+9)){g.damage(e,5+p.segments*0.6);e.hit=0.55;}}}
+export function spawnEnemy(g,type){const p=g.player,a=g.random()*Math.PI*2;let x=Math.max(25,Math.min(RULES.width-25,p.x+Math.cos(a)*650)),y=Math.max(25,Math.min(RULES.height-25,p.y+Math.sin(a)*650));if(Math.hypot(x-p.x,y-p.y)<350){x=p.x<RULES.width/2?RULES.width-50:50;y=p.y<RULES.height/2?RULES.height-50:50;}const cfg=ENEMIES[type],growth=1+g.time/400;g.enemies.push({...cfg,hp:cfg.hp*(type==='boss'?1:growth),type,x,y,maxHp:cfg.hp*(type==='boss'?1:growth),id:g.nextId++,flash:0,hit:0,attack:2,phase:1});}
+export function updateEnemies(g,dt){const p=g.player;for(const e of g.enemies){if(e.hp<=0)continue;const d=Math.hypot(p.x-e.x,p.y-e.y)||1;let speed=e.speed*(e.type==='beast'&&(g.time+e.id)%3<.7?1.9:1);if(e.type==='worm'&&d<320)speed=d<220?-e.speed:0;if(e.type==='skeleton'&&d<45)speed=0;e.x+=(p.x-e.x)/d*speed*dt;e.y+=(p.y-e.y)/d*speed*dt;e.flash=Math.max(0,e.flash-dt);e.hit=Math.max(0,e.hit-dt);e.attack-=dt;
+ if(e.type==='boss'){e.phase=e.hp/e.maxHp<.33?3:e.hp/e.maxHp<.66?2:1;}
+ if(['worm','elite','boss'].includes(e.type)&&e.attack<=0){if(e.type==='worm'){const a=Math.atan2(p.y-e.y,p.x-e.x);g.hostile.push({x:e.x,y:e.y,vx:Math.cos(a)*190,vy:Math.sin(a)*190,life:5,damage:e.damage});e.attack=2.5;}else{g.warnings.push({x:p.x,y:p.y,r:e.type==='boss'?85+e.phase*20:70,delay:.9,life:.9,damage:e.damage});if(e.type==='boss')for(let i=0;i<e.phase*8;i++){const a=i*Math.PI*2/(e.phase*8);g.hostile.push({x:e.x,y:e.y,vx:Math.cos(a)*150,vy:Math.sin(a)*150,life:6,damage:15});}e.attack=e.type==='boss'?3.5-e.phase*.5:4;}}
+ if(d<e.radius+p.radius)g.hurt(e.damage);if(e.hit===0&&p.body.some(b=>Math.hypot(b.x-e.x,b.y-e.y)<e.radius+9)){g.damage(e,5+p.segments*.6);e.hit=.55;}}
+ for(const b of g.hostile){b.life-=dt;b.x+=b.vx*dt;b.y+=b.vy*dt;if(Math.hypot(p.x-b.x,p.y-b.y)<p.radius+7){g.hurt(b.damage);b.life=0;}}g.hostile=g.hostile.filter(b=>b.life>0);
+ for(const w of g.warnings){w.life-=dt;if(w.life<=0&&Math.hypot(p.x-w.x,p.y-w.y)<w.r+p.radius)g.hurt(w.damage);}g.warnings=g.warnings.filter(w=>w.life>0);
+}

diff --git a/Task02/project/snake-survivors/src/game/weapons.js b/Task02/project/snake-survivors/src/game/weapons.js
@@ -1,4 +1,13 @@
-export function updateWeapons(g,dt){g.cooldown-=dt;const p=g.player;if(g.cooldown<=0){const target=g.enemies.filter(e=>e.hp>0).sort((a,b)=>Math.hypot(a.x-p.x,a.y-p.y)-Math.hypot(b.x-p.x,b.y-p.y))[0];if(target && Math.hypot(target.x-p.x,target.y-p.y)<520){g.bullets.push({x:p.x,y:p.y,target:target.id,life:2.4,damage:18*(1+0.2*(g.upgrades.power||0))});g.cooldown=0.65*Math.pow(0.9,g.upgrades.haste||0);}}
- for(const b of g.bullets){b.life-=dt;const e=g.enemies.find(e=>e.id===b.target&&e.hp>0);if(!e){b.life=0;continue;}const d=Math.hypot(e.x-b.x,e.y-b.y)||1;b.x+=(e.x-b.x)/d*440*dt;b.y+=(e.y-b.y)/d*440*dt;if(d<e.radius+8+440*dt){g.damage(e,b.damage);b.life=0;}}
- g.bullets=g.bullets.filter(b=>b.life>0);
+import {WEAPONS,CHARACTERS} from './progression.js';
+const dist=(a,b)=>Math.hypot(a.x-b.x,a.y-b.y);
+export function bladePositions(g){const lv=g.weapons.blade||0;if(!lv)return [];const count=2+Math.floor(lv/2)+(g.evolved.blade?3:0),r=g.evolved.blade?150:90;return Array.from({length:count},(_,i)=>({x:g.player.x+Math.cos(g.time*3+i*Math.PI*2/count)*r,y:g.player.y+Math.sin(g.time*3+i*Math.PI*2/count)*r}));}
+export function updateWeapons(g,dt){const p=g.player,c=CHARACTERS[g.character];for(const [id,lv] of Object.entries(g.weapons)){g.timers[id]=(g.timers[id]||0)-dt;if(g.timers[id]>0)continue;const cfg=WEAPONS[id],evo=g.evolved[id],range=cfg.range+(lv-1)*15;const targets=g.enemies.filter(e=>e.hp>0&&dist(e,p)<range).sort((a,b)=>dist(a,p)-dist(b,p));const damage=cfg.damage*(1+(lv-1)*.3)*(evo?2:1)*(id==='fire'&&g.character==='fire'?1.25:1);g.timers[id]=cfg.interval*Math.pow(.9,g.upgrades.haste||0)*c.haste/(g.fever>0?1.7:1);
+ if(id==='fire'){for(const e of targets.slice(0,1+Math.floor(lv/2)+(evo?3:0)))g.bullets.push({x:p.x,y:p.y,target:e.id,life:2.4,damage,evo});}
+ if(id==='lightning'){let from=p;for(const e of targets.slice(0,cfg.count+Math.floor(lv/2)+(g.character==='thunder'?1:0)+(evo?5:0))){g.damage(e,damage);g.effects.push({x:from.x,y:from.y,x2:e.x,y2:e.y,color:cfg.color,life:.22});from=e;}}
+ if(id==='blade'){for(const e of g.enemies)if(e.hp>0&&bladePositions(g).some(b=>dist(b,e)<e.radius+22))g.damage(e,damage);}
+ if(id==='poison'){g.zones.push({x:p.x,y:p.y,r:range,life:2,damage:damage*.5,tick:0});}
+ if(id==='shadow'){for(const e of targets.slice(0,1+Math.floor(lv/2))){g.damage(e,damage);g.effects.push({x:p.x,y:p.y,x2:e.x,y2:e.y,color:cfg.color,life:.5,shadow:true});}}
+ }
+ for(const b of g.bullets){b.life-=dt;const e=g.enemies.find(e=>e.id===b.target&&e.hp>0);if(!e){b.life=0;continue;}const d=dist(e,b)||1;b.x+=(e.x-b.x)/d*440*dt;b.y+=(e.y-b.y)/d*440*dt;if(d<e.radius+8+440*dt){g.damage(e,b.damage);if(b.evo){g.zones.push({x:e.x,y:e.y,r:110,damage:b.damage*.3,life:1.5,tick:0,fire:true});}b.life=0;}}
+ g.bullets=g.bullets.filter(b=>b.life>0);for(const z of g.zones){z.life-=dt;z.tick-=dt;if(z.tick<=0){for(const e of g.enemies)if(e.hp>0&&dist(e,z)<z.r+e.radius)g.damage(e,z.damage);z.tick=.5;}}g.zones=g.zones.filter(z=>z.life>0);
 }

diff --git a/Task02/project/snake-survivors/src/game/progression.js b/Task02/project/snake-survivors/src/game/progression.js
@@ -1,0 +1,23 @@
+export const CHARACTERS={
+ fire:{name:'赤焰蛇',weapon:'fire',hp:100,attack:1.2,haste:1,reduction:0,color:'#ef9661',passive:'火焰伤害 +25%'},
+ thunder:{name:'雷霆蛇',weapon:'lightning',hp:90,attack:1,haste:.8,reduction:0,color:'#b4a3ff',passive:'闪电连锁 +1 · 攻速 +25%'},
+ armor:{name:'玄甲蛇',weapon:'blade',hp:150,attack:1,haste:1,reduction:.2,color:'#8fcbb8',passive:'受到伤害降低 20%'}
+};
+export const WEAPONS={
+ fire:{name:'火焰弹',damage:18,interval:.65,range:520,count:1,color:'#ffad61'},
+ lightning:{name:'雷电链',damage:15,interval:1.2,range:420,count:3,color:'#baadff'},
+ blade:{name:'旋刃',damage:12,interval:.5,range:90,count:2,color:'#c9e4e3'},
+ poison:{name:'毒雾',damage:8,interval:.6,range:130,count:1,color:'#a9d775'},
+ shadow:{name:'蛇影分身',damage:30,interval:2,range:650,count:1,color:'#d692f3'}
+};
+export const EVOLUTIONS=[
+ {weapon:'fire',level:5,core:'fireCore',name:'地狱火雨',color:'#ff714a'},
+ {weapon:'lightning',level:5,core:'energyCore',name:'天罚雷暴',color:'#e1ccff'},
+ {weapon:'blade',level:5,core:'windCore',name:'虚空风暴',color:'#7bfff0'}
+];
+export const CORES={fireCore:'火焰核心',energyCore:'能量核心',windCore:'风之核心'};
+export function evolve(g){for(const e of EVOLUTIONS)if((g.weapons[e.weapon]||0)>=e.level&&g.cores[e.core])g.evolved[e.weapon]=true;}
+export function weaponChoices(g){return Object.entries(WEAPONS).filter(([id])=>(g.weapons[id]||0)<5).map(([id,w])=>({id:'weapon:'+id,name:w.name+' Lv.'+((g.weapons[id]||0)+1),description:`${g.weapons[id]?'强化伤害、数量与范围':'获得新武器'} · 上限 Lv.5`}));}
+export function coreChoices(g){return Object.entries(CORES).filter(([id])=>!g.cores[id]).map(([id,name])=>({id:'core:'+id,name,description:'对应武器达到 Lv.5 时自动进化'}));}
+export function registerKill(g){if(g.time-g.lastKill>3)g.combo=0;g.lastKill=g.time;g.combo++;g.maxCombo=Math.max(g.maxCombo,g.combo);if(g.combo>=30&&g.time>=g.feverReady){g.fever=6;g.feverReady=g.time+18;}}
+export const comboMultiplier=g=>1+Math.min(1,Math.floor(g.combo/10)*.1);

diff --git a/Task02/project/snake-survivors/src/game/config.js b/Task02/project/snake-survivors/src/game/config.js
@@ -1,11 +1,19 @@
-export const RULES = { width:2400, height:1800, duration:90, spacing:14, segments:10, maxEnemies:160 };
+export const RULES = { width:2400, height:1800, duration:600, spacing:14, segments:10, maxEnemies:160 };
 export const ENEMIES = {
  slime:{hp:20,speed:48,damage:8,radius:15,color:'#8cbb65',xp:5},
  beast:{hp:15,speed:105,damage:12,radius:12,color:'#e3a45d',xp:6},
+ worm:{hp:32,speed:42,damage:10,radius:14,color:'#a7b56a',xp:9},
+ elite:{hp:450,speed:63,damage:24,radius:29,color:'#e1a956',xp:100},
+ boss:{hp:8000,speed:38,damage:30,radius:65,color:'#c778b6',xp:500},
  skeleton:{hp:42,speed:65,damage:16,radius:17,color:'#d5d7c3',xp:10}
 };
 export const threshold = level => Math.round(16 + level * 9 + level * level * 1.1);
 export const UPGRADES = [
+ {id:'crit',name:'锐利感知',description:'暴击率 +8% · 上限 60%',max:7},
+ {id:'critDamage',name:'致命之牙',description:'暴击伤害 +25% · 上限 3 倍',max:6},
+ {id:'regen',name:'复苏',description:'每秒恢复 0.5 生命',max:5},
+ {id:'armor',name:'坚韧鳞甲',description:'减伤 +8% · 总上限 60%',max:5},
+ {id:'xp',name:'灵性',description:'经验获取 +15%',max:5},
  {id:'power',name:'灼热之牙',description:'火焰伤害 +20% · 最多 5 次',max:5},
  {id:'haste',name:'迅捷本能',description:'攻击间隔缩短 10% · 最多 5 次',max:5},
  {id:'length',name:'生长蜕变',description:'增加 3 节蛇身，接触伤害随长度提升',max:6},

diff --git a/Task02/project/snake-survivors/src/game/drops.js b/Task02/project/snake-survivors/src/game/drops.js
@@ -1,1 +1,1 @@
-export function updateDrops(g,dt){const p=g.player;for(const d of g.drops){const distance=Math.hypot(p.x-d.x,p.y-d.y);if(distance<120){const move=Math.min(1,dt*9);d.x+=(p.x-d.x)*move;d.y+=(p.y-d.y)*move;}if(distance<22){g.xp+=d.value;d.collected=true;}}g.drops=g.drops.filter(d=>!d.collected);}
+export function updateDrops(g,dt){const p=g.player;for(const d of g.drops){const distance=Math.hypot(p.x-d.x,p.y-d.y);if(distance<120){const move=Math.min(1,dt*9);d.x+=(p.x-d.x)*move;d.y+=(p.y-d.y)*move;}if(distance<22){g.xp+=d.value;if(d.rare)g.offer(true);d.collected=true;}}g.drops=g.drops.filter(d=>!d.collected);}
